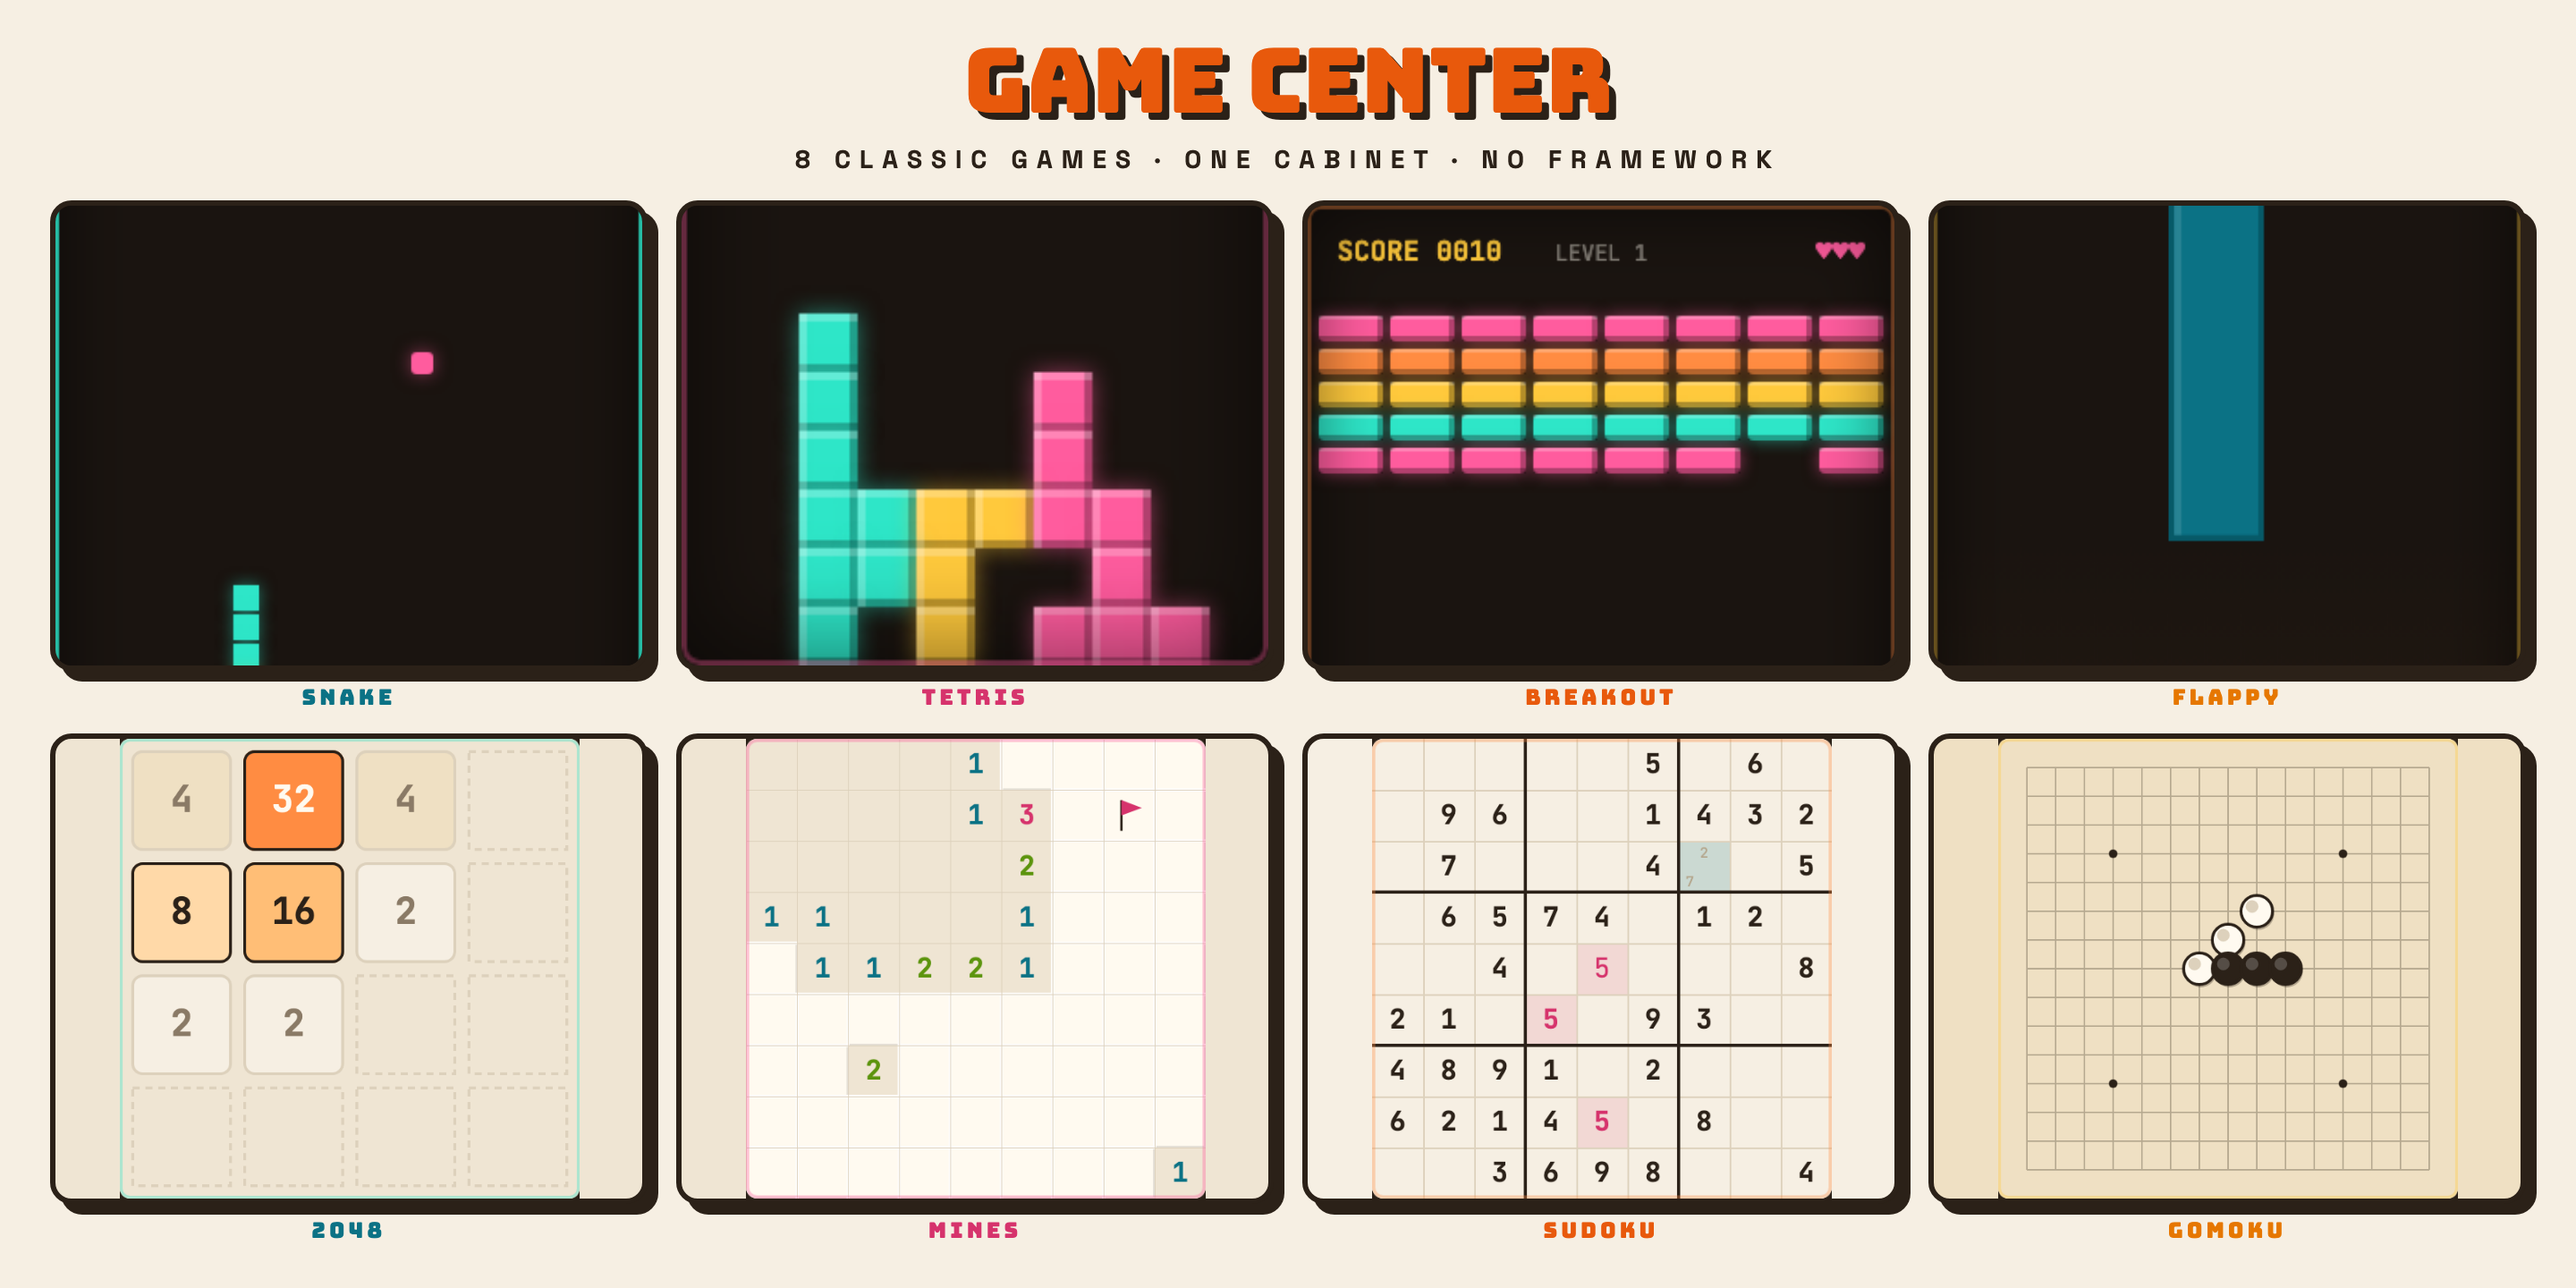
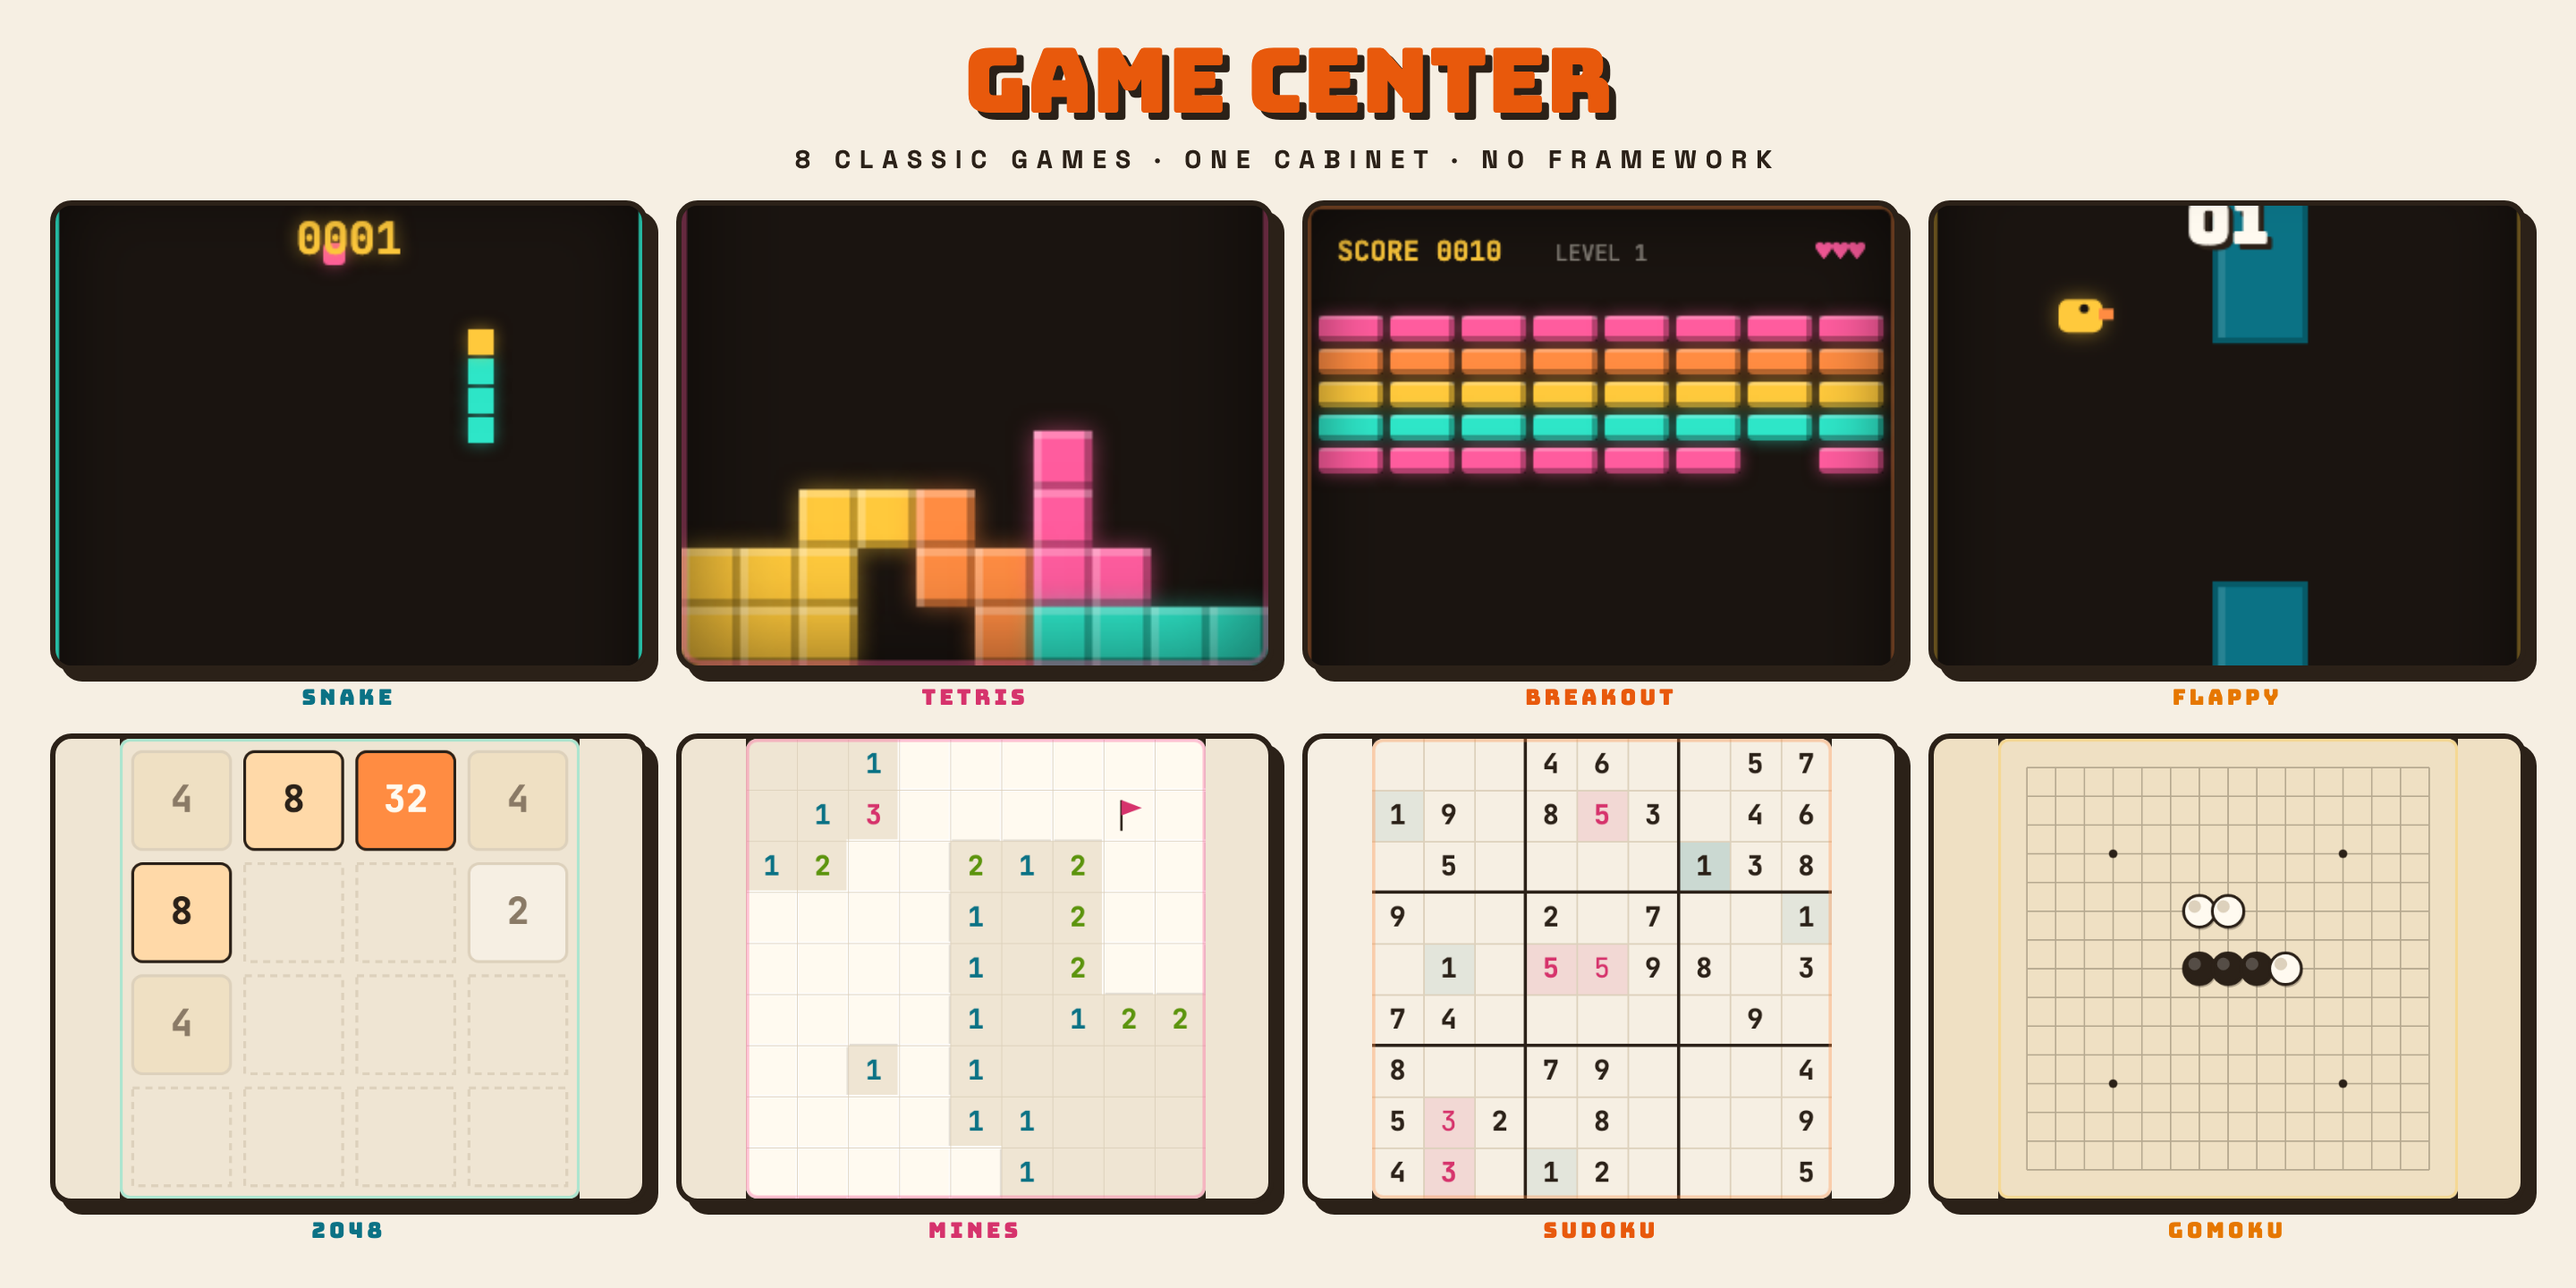
docs: social card keeps every game visibly mid-play
The first card had Flappy with no bird: the canvas is portrait, the tile shows its middle
band, and the bird was outside it. Regenerating exposed two more ways a tile goes wrong —
Snake's "last living frame" could be the death frame (the sprite is wiped before the
settle overlay shows, so the overlay check alone lags by one poll), and Minesweeper's
fixed clicks sometimes hit a mine.

Snake and Flappy now promote a frame only after the next poll still finds the game alive
and the gold sprite still on screen, and anchor the tile's crop on that sprite instead of
the centre. Minesweeper reloads and retries on BOOM. game-drivers.mjs exports findColor
and GOLD for this.

diff --git a/docs/design/2026-09-13-social-preview.md b/docs/design/2026-09-13-social-preview.md
@@ -26,6 +26,11 @@ GitHub 在链接卡片里展示的 Social preview 是固定 2:1（推荐 1280×6
   录 GIF 与出社交图共用；预置分数也一并抽出，Snake 从 3840 改成 38，与首页截图一致。
 - **实时类四款用 DPR 1 抓拍。** 驱动靠每 40 ms 读整张画布找精灵来操作，DPR 2 下像素量四倍，
   转向指令赶不上步进，蛇会直接撞墙。纸盘四款没有这个问题，用 DPR 2。
-- **Snake 的死活用 DOM 判。** 结算面板是 `.settle` 浮层不是画在 canvas 上，读画布像素永远
-  判不到；用 `.settle` 的 `hidden` 属性。抓拍策略是每 0.4 s 存一帧，浮层出现即停，取最后一帧。
+- **Snake 与 Flappy 的死活用 DOM 判，且帧要「事后确认」。** 结算面板是 `.settle` 浮层不是画在
+  canvas 上，读画布像素永远判不到；用 `.settle` 的 `hidden` 属性。每 0.4 s 存一帧到 pending，
+  **下一轮**再确认还活着才把它转正——浮层可能在「检查」与「截图」之间弹出。另外游戏在浮层出现前
+  会先抹掉精灵，所以帧里找不到金色精灵（蛇头 / 小鸟）也视为死亡帧，不转正。
+- **竖屏格子按精灵位置锚定裁切。** Snake 与 Flappy 的画布是 320×480，格子只能放下中段；
+  用金色精灵在帧里的纵向百分比设 `object-position`，否则蛇或鸟经常正好在裁掉的区域里。
+- **扫雷踩雷就重开。** 脚本点击是固定位置，雷是随机的；出现 BOOM 浮层则刷新页面重来，最多六次。
 - 其余实时游戏按固定时刻抓拍（结算出现之前）；Gomoku 在第五子落下前抓，避免 BLACK WINS 弹层。
